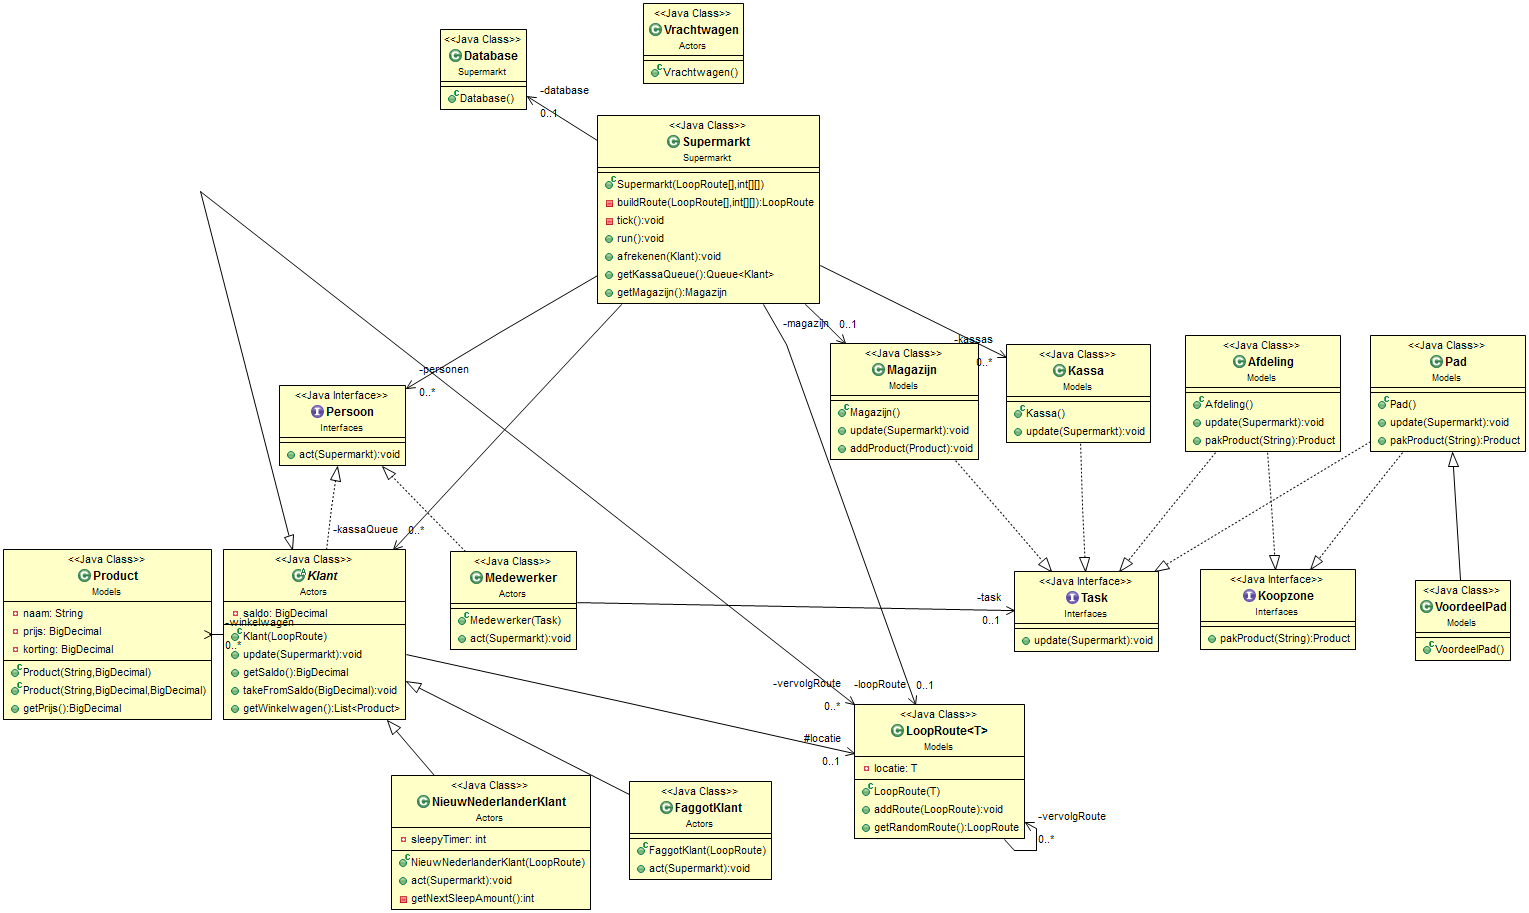
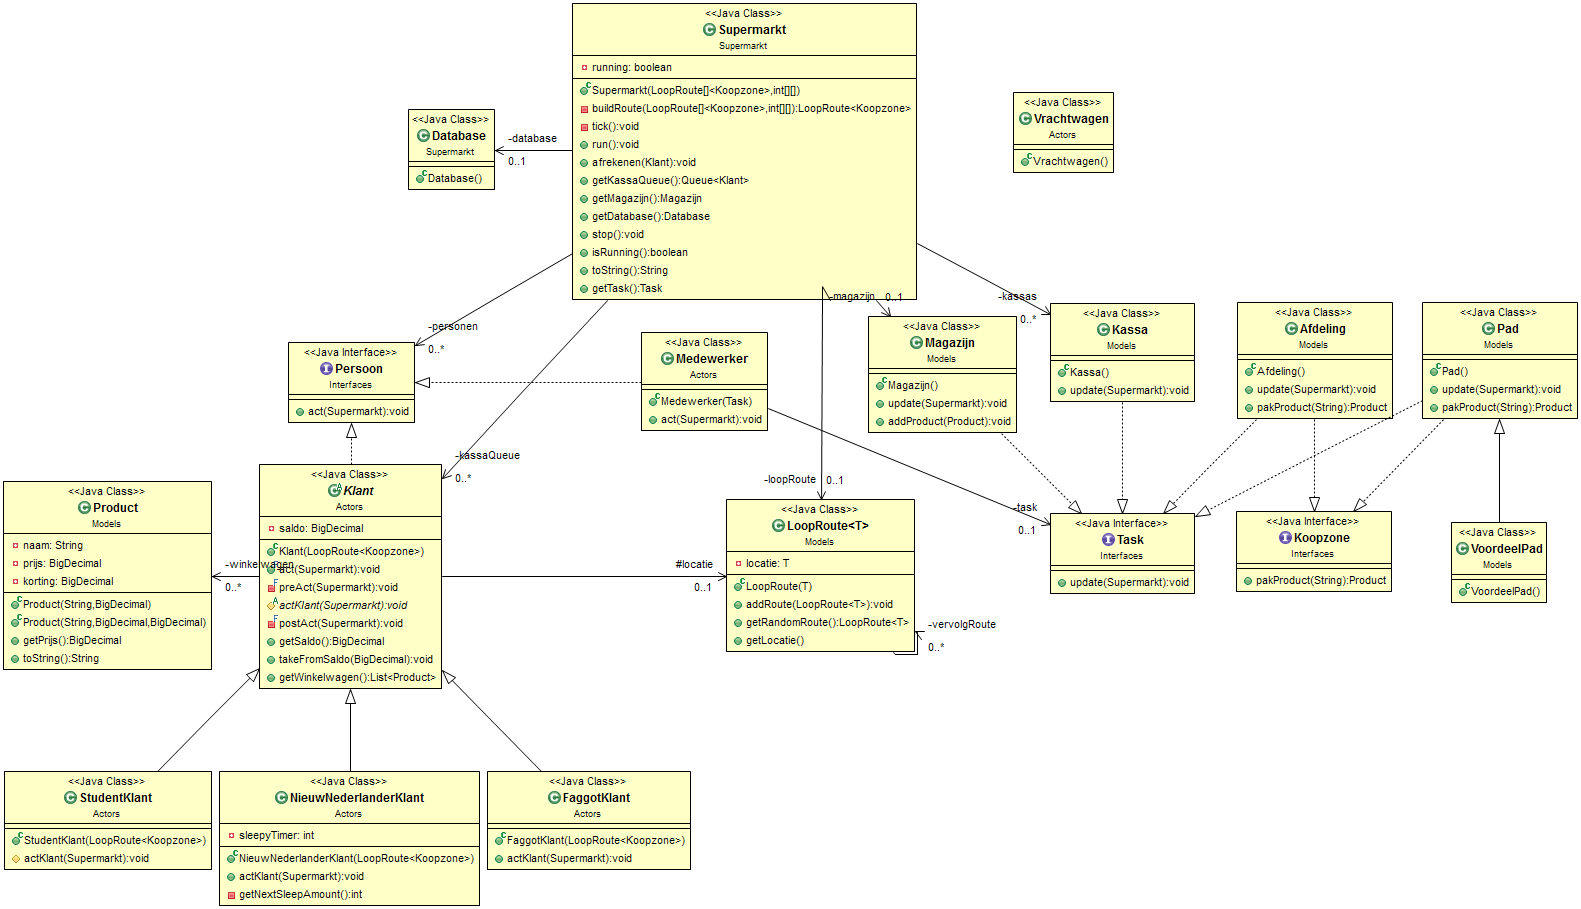
Random dingen

diff --git a/src/Supermarkt/Supermarkt.java b/src/Supermarkt/Supermarkt.java
@@ -7,6 +7,7 @@ import java.util.Queue;
 import Actors.Klant;
 import Interfaces.Koopzone;
 import Interfaces.Persoon;
+import Interfaces.Task;
 import Models.Kassa;
 import Models.LoopRoute;
 import Models.Magazijn;
@@ -32,16 +33,14 @@ public class Supermarkt implements Runnable {
 		this.magazijn = new Magazijn();
 		this.loopRoute = buildRoute(nodeMap, routeMap);
 
-		this.kassas = new Kassa[] { new Kassa(), new Kassa(), new Kassa(),
-				new Kassa() };
+		this.kassas = new Kassa[] { new Kassa(), new Kassa(), new Kassa(), new Kassa() };
 	}
 
 	private LoopRoute<Koopzone> buildRoute(LoopRoute<Koopzone>[] nodeMap, int[][] routeMap) {
 		if (nodeMap.length > 0) {
-			for (int y = 0; y < routeMap.length; y++) {
-				for (int x = 0; x < routeMap[y].length - 1; x++) {
-					nodeMap[routeMap[y][x]]
-							.addRoute(nodeMap[routeMap[y][x + 1]]);
+			for (int[] path : routeMap) {
+				for (int x = 0; x < path.length - 1; x++) {
+					nodeMap[path[x]].addRoute(nodeMap[path[x + 1]]);
 				}
 			}
 			return nodeMap[0];
@@ -77,11 +76,11 @@ public class Supermarkt implements Runnable {
 	public Magazijn getMagazijn() {
 		return magazijn;
 	}
-	
+
 	public Database getDatabase() {
 		return database;
 	}
-	
+
 	public void stop() {
 		this.running = false;
 	}
@@ -90,6 +89,10 @@ public class Supermarkt implements Runnable {
 		return running;
 	}
 	
+	public Task getTask() { //Geef een taak terug die gedaan moet worden
+		return null;
+	}
+
 	@Override
 	public synchronized String toString() {
 		return String.format("Aantal klanten: %d", personen.size());

diff --git a/src/Main.java b/src/Main.java
@@ -8,7 +8,7 @@ import Supermarkt.Supermarkt;
 
 public class Main {
 	public static void main(String[] args) {
-		
+
 		@SuppressWarnings("unchecked")
 		Supermarkt supermarkt = new Supermarkt(
 				new LoopRoute[] {
@@ -16,16 +16,16 @@ public class Main {
 					new LoopRoute<Koopzone>(new Pad()),
 					new LoopRoute<Koopzone>(new Pad()),
 					new LoopRoute<Koopzone>(new Afdeling()) }, 
-				new int[][] { 
+				new int[][] {
 					{ 0, 1, 3 },
 					{ 0, 2, 3 } });
-		
+
 		new Thread(supermarkt).start();
-		
+
 		Scanner console = new Scanner(System.in);
-		
-		while(supermarkt.isRunning() && console.hasNextLine()) {
-			switch(console.nextLine()) {
+
+		while (supermarkt.isRunning() && console.hasNextLine()) {
+			switch (console.nextLine()) {
 			case "q":
 				supermarkt.stop();
 				break;

diff --git a/src/Actors/StudentKlant.java b/src/Actors/StudentKlant.java
@@ -1,0 +1,19 @@
+package Actors;
+
+import Interfaces.Koopzone;
+import Models.LoopRoute;
+import Supermarkt.Supermarkt;
+
+public class StudentKlant extends Klant {
+
+	public StudentKlant(LoopRoute<Koopzone> locatie) {
+		super(locatie);
+		// TODO Auto-generated constructor stub
+	}
+
+	@Override
+	protected void actKlant(Supermarkt supermarkt) {
+		// TODO Auto-generated method stub
+
+	}
+}

diff --git a/src/Actors/Medewerker.java b/src/Actors/Medewerker.java
@@ -6,12 +6,16 @@ import Interfaces.Task;
 
 public class Medewerker implements Persoon {
 	private Task task;
-	
+
 	public Medewerker(Task task) {
 		this.task = task;
 	}
 
 	public void act(Supermarkt supermarkt) {
-		task.update(supermarkt);
+		if (task != null) {
+			task.update(supermarkt);
+		}else{
+			task = supermarkt.getTask();
+		}
 	}
 }

diff --git a/src/Supermarkt/Database.java b/src/Supermarkt/Database.java
@@ -5,5 +5,4 @@ public class Database {
 	public Database() {
 		// TODO Auto-generated constructor stub
 	}
-
 }
